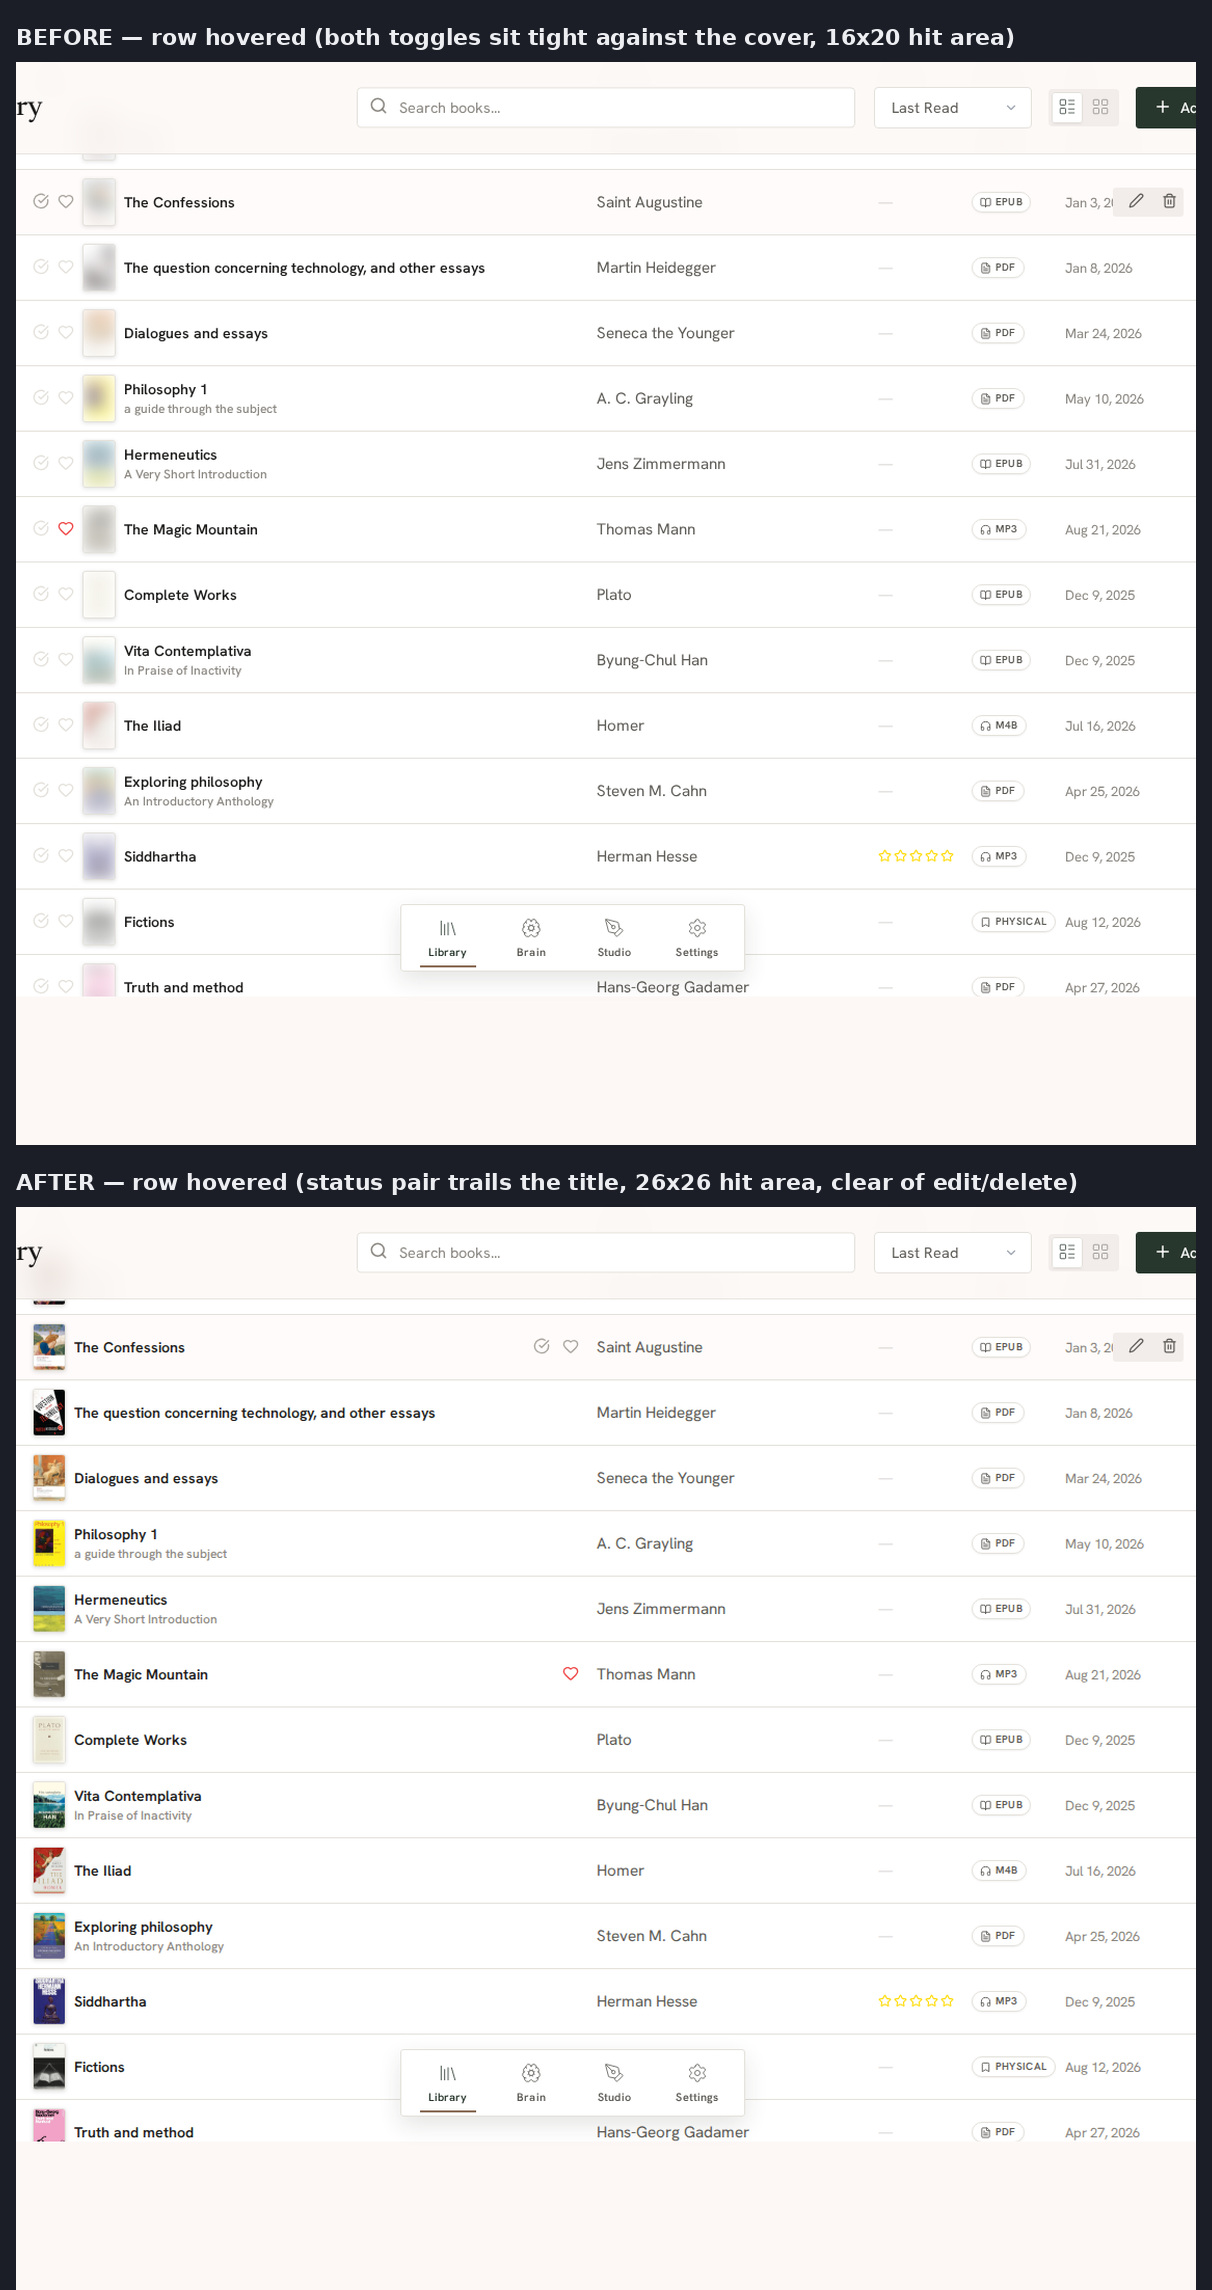
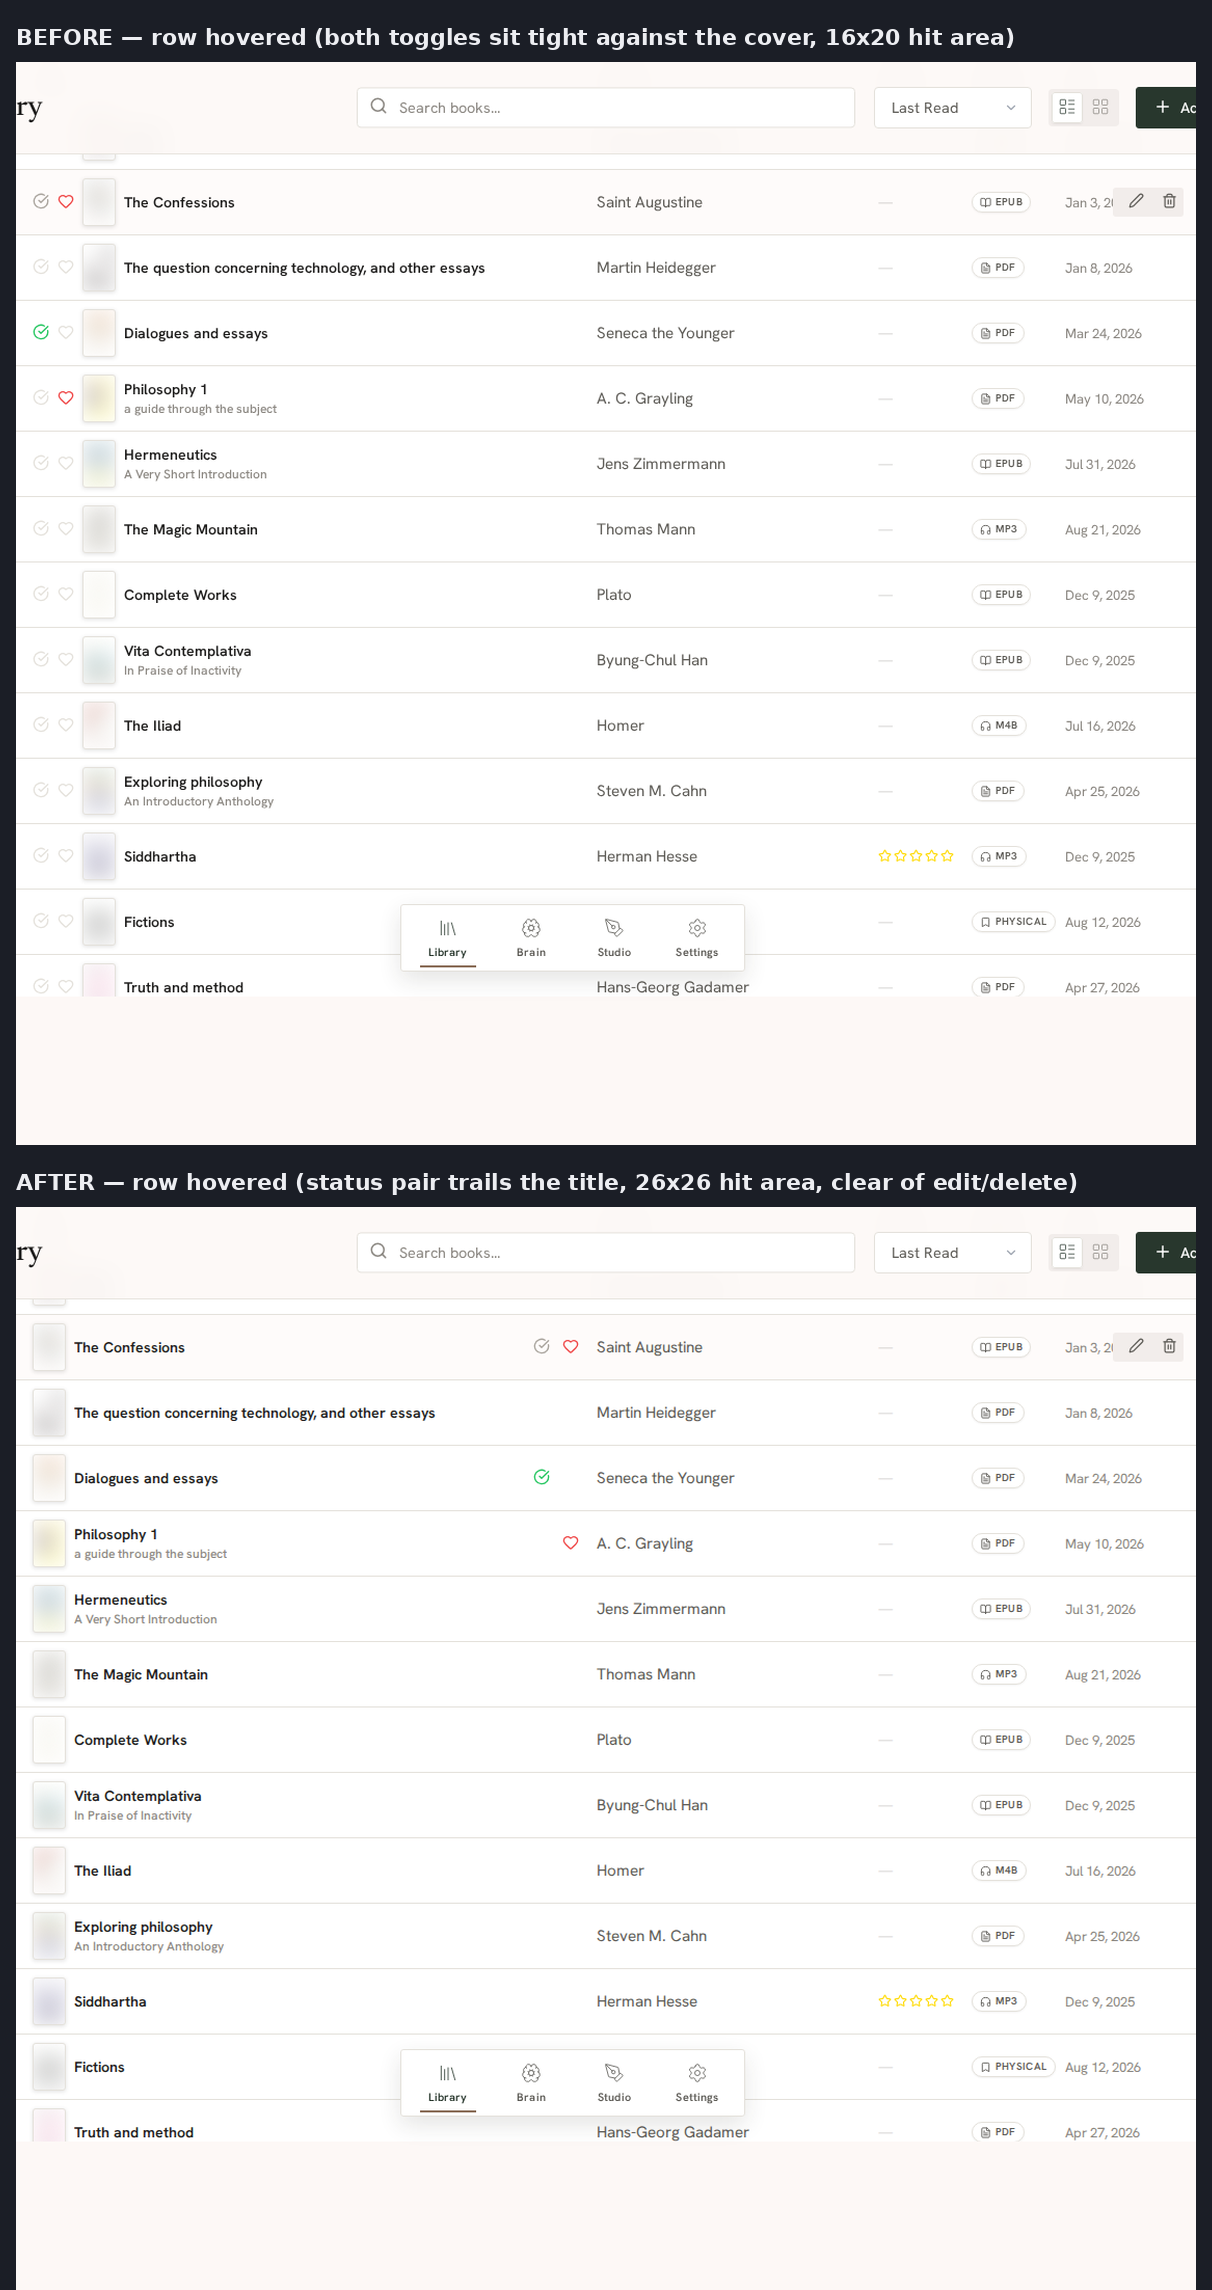
fix(library): revert the list-row containment and tidy the mobile status pair
Two mobile-only defects from the previous commit, both found by rendering the
list at 390x844 against the real library.

1. The row containment had to go. `content-visibility: auto` sizes an
   unrendered row from `contain-intrinsic-size` until it paints, and a row's
   height is not a constant on mobile: the breakpoint's `padding: 1rem` plus a
   wrapping title makes it 79px, against the 63px placeholder I copied from the
   desktop row. Every placeholder/reality mismatch shifted the rows after it,
   and because the list is infinite-scrolled the error compounded - measured,
   a requested scroll step landed up to 4421px away (mean 1844px). With the
   containment forced off the same walk drifts 693px, which is the pre-existing
   pagination behaviour. The grid's cards are a fixed aspect-ratio box, so their
   rule is safe; the list's rows are not. The row's own paint is cheap (no blur,
   no shadow), so nothing here justified that price. The row is now
   `content-visibility: visible`, identical to before the branch.

2. The status pair kept touching the format badge on a phone. Dropping the
   cluster's right padding (to buy the title room in the 2-column mobile layout)
   put the toggle's edge exactly on the title column's edge: measured gap to the
   format badge 0px. Padding is symmetric again, gap 8px, title still fits.

The active/inactive behaviour on touch is unchanged and now asserted: a row
[…]

Changed region(s): [[0.0305, 0.5581, 0.0611, 0.9611], [0.0611, 0.062, 0.0916, 0.248], [0.0611, 0.279, 0.0916, 0.4341]]

diff --git a/Nostos.Frontend/src/app/library/library.component.css b/Nostos.Frontend/src/app/library/library.component.css
@@ -985,15 +985,18 @@ app-sidebar-collections.no-transition {
     contain-intrinsic-size: 0 340px;
   }
 
-  /* The same containment for list rows, which previously had none: the grid
-     was skipping layout and paint for offscreen items while every offscreen
-     row in the list was still laid out and painted on each scroll frame. Rows
-     are a fixed 63px tall, so the placeholder size is exact and adding offscreen
-     rows to the page cannot shift the scroll position. */
-  .table-row {
-    content-visibility: auto;
-    contain-intrinsic-size: 0 63px;
-  }
+  /* NOTE: list rows deliberately do NOT get the same containment.
+     `content-visibility: auto` sizes an unrendered row from
+     `contain-intrinsic-size` until it is painted, and a row's height is not a
+     constant here — the mobile breakpoint's `padding: 1rem` plus a wrapping
+     title makes it ~79px against the 63px desktop row. Whenever a placeholder
+     disagrees with the real height (and whenever lazy covers land and resize a
+     row), every following row shifts, and because the list is infinite-scrolled
+     the error compounds: measured at 390x844 it displaced the scroll position by
+     up to 4421px for a requested step, against 693px with the containment
+     forced off. The grid's cards are a fixed aspect-ratio box, so its rule is
+     safe; the list's rows are not, and the row's own paint is cheap (no blur,
+     no shadow) so there is nothing here worth that price. */
 
   /* --- MOBILE RESPONSIVE --- */
   :host {
@@ -1181,9 +1184,13 @@ app-sidebar-collections.no-transition {
      would leave the title a sliver. The active state keeps its place (a
      finished or favourite book must still read at a glance); the inactive
      toggle behaves exactly as it does for the grid's cards on touch, where
-     the same pair is hidden and the state is changed from the detail page. */
+     the same pair is hidden and the state is changed from the detail page.
+     Padding stays symmetric: dropping the right pad put the toggle's edge at
+     the title column's edge and the heart ended up touching the format badge
+     (measured gap 0px), because the cluster is pushed right by margin-left:auto
+     and the pad sits inside it either way. */
   .list-row-status {
-    padding: 0 0 0 0.5rem;
+    padding: 0 0.5rem;
   }
 
   .fav-btn-list:not(.active),
